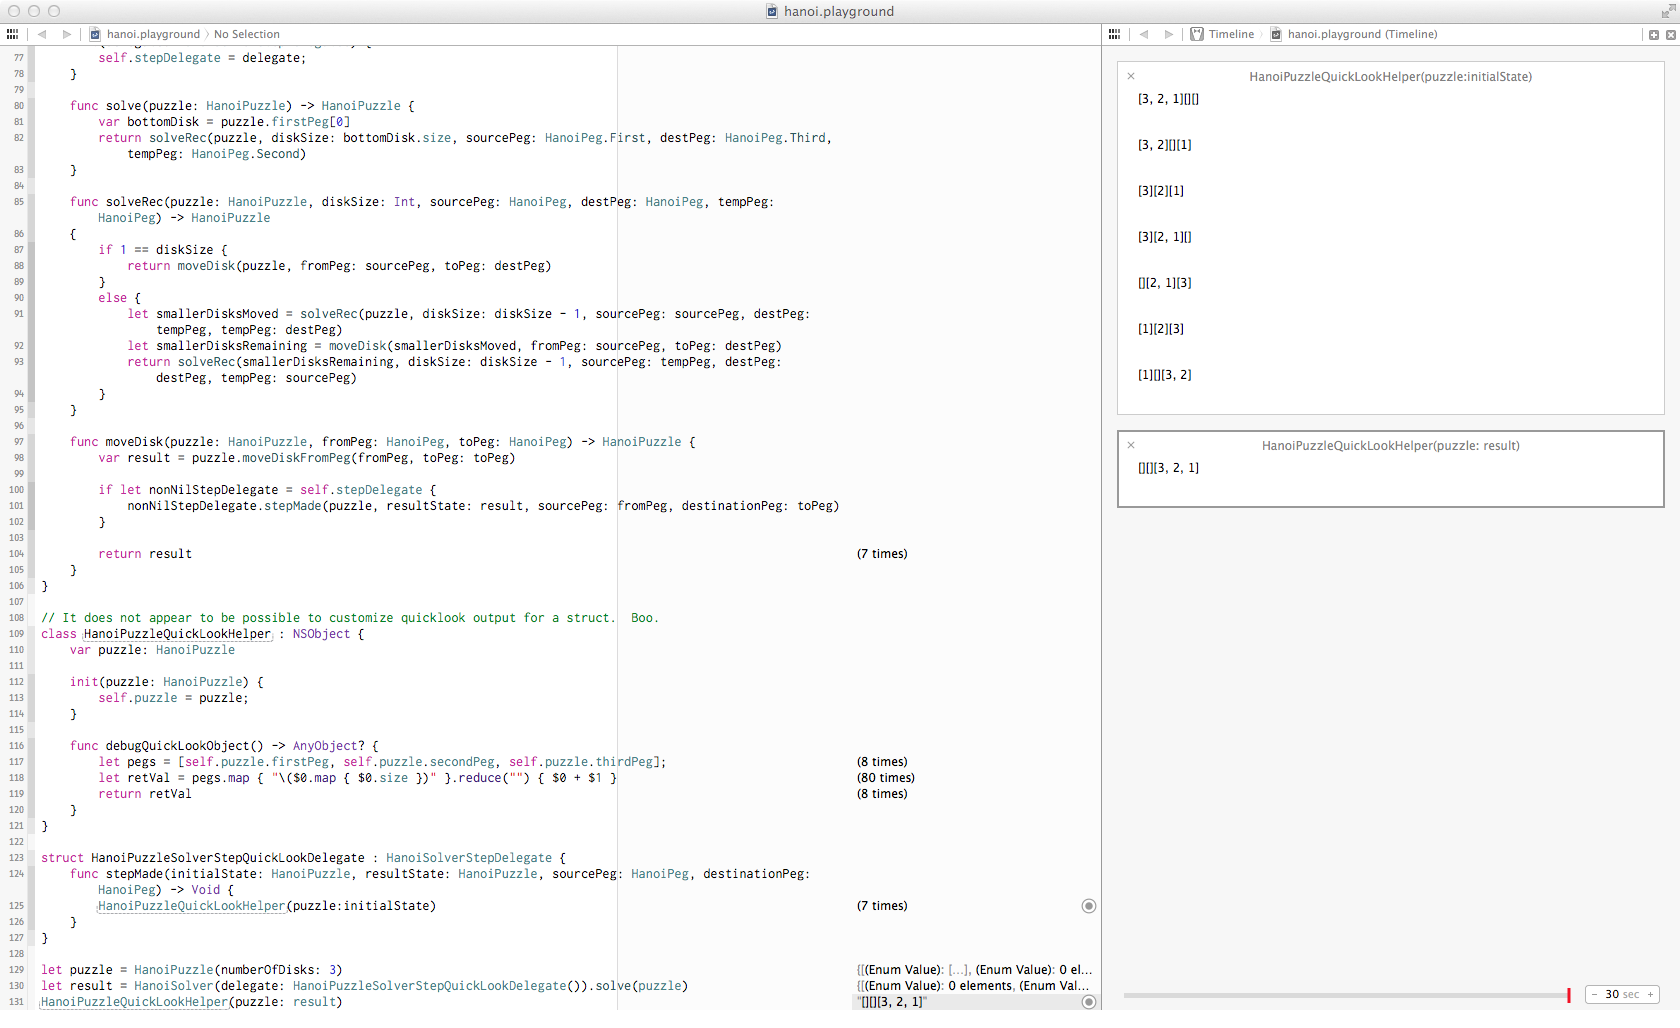
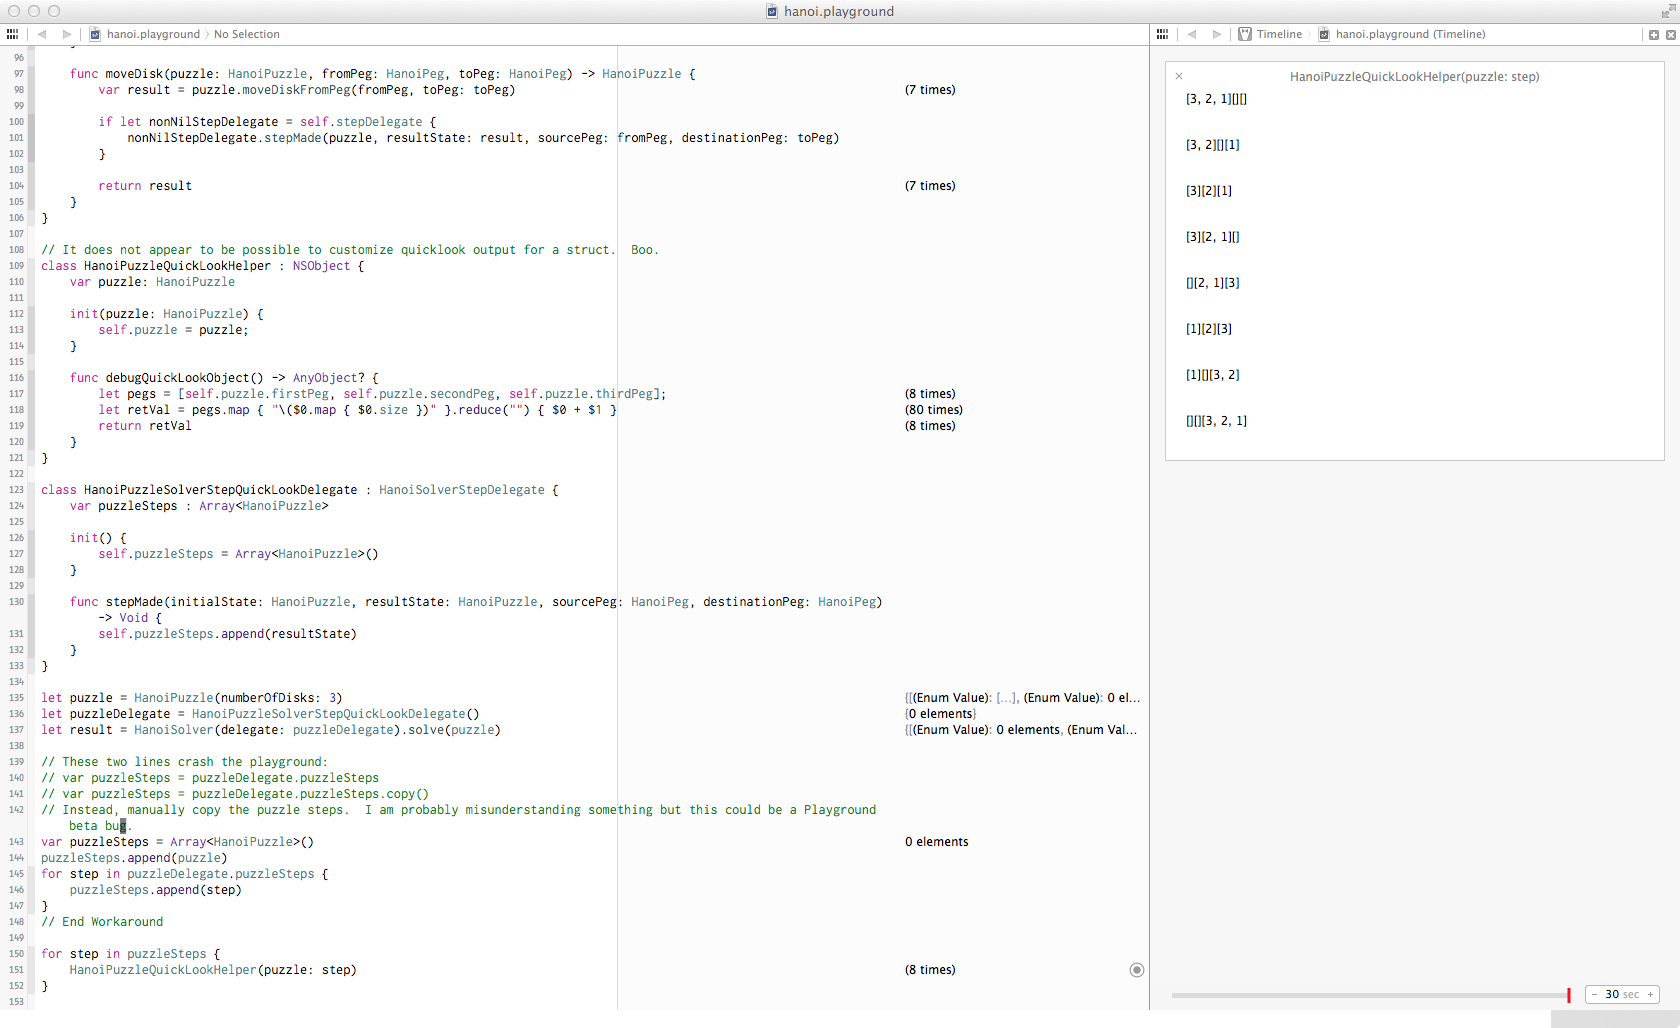
Accumulate solution steps in the solver delegate
Squashed commit of the following:

commit 26e01b0c929bc9bd8bbe21df3846ba07e19030cb
Author: Mark Schabacker <mark.schabacker@gmail.com>
Date:   Sun Jun 15 11:52:33 2014 -0400

    Update text quicklook screenshot

commit 783075ae256594dca186228bd82bc974a6e39081
Author: Mark Schabacker <mark.schabacker@gmail.com>
Date:   Sun Jun 15 11:51:26 2014 -0400

    Explain workaround

commit a68e4b1148769118ec602abc20a75150d570b6bb
Author: Mark Schabacker <mark.schabacker@gmail.com>
Date:   Sun Jun 15 10:05:48 2014 -0400

    Remove puzzle steps wrapper class

commit bf4da83cdbd02ee2c52e50db408a1a321ef19dc5
Author: Mark Schabacker <mark.schabacker@gmail.com>
Date:   Sun Jun 15 10:03:20 2014 -0400

    Avoid modifying delegate collection

commit 041c5bd32a7078f11ecb851b9253b8449eb080b8
Author: Mark Schabacker <mark.schabacker@gmail.com>
Date:   Sun Jun 15 09:59:28 2014 -0400

    Add PuzzleStepsWrapper to allow for array state accumulation

diff --git a/swift/hanoi.playground/section-1.swift b/swift/hanoi.playground/section-1.swift
@@ -120,12 +120,33 @@ class HanoiPuzzleQuickLookHelper : NSObject {
     }
 }
 
-struct HanoiPuzzleSolverStepQuickLookDelegate : HanoiSolverStepDelegate {
+class HanoiPuzzleSolverStepQuickLookDelegate : HanoiSolverStepDelegate {
+    var puzzleSteps : Array<HanoiPuzzle>
+
+    init() {
+        self.puzzleSteps = Array<HanoiPuzzle>()
+    }
+
     func stepMade(initialState: HanoiPuzzle, resultState: HanoiPuzzle, sourcePeg: HanoiPeg, destinationPeg: HanoiPeg) -> Void {
-        HanoiPuzzleQuickLookHelper(puzzle:initialState)
+        self.puzzleSteps.append(resultState)
     }
 }
 
 let puzzle = HanoiPuzzle(numberOfDisks: 3)
-let result = HanoiSolver(delegate: HanoiPuzzleSolverStepQuickLookDelegate()).solve(puzzle)
-HanoiPuzzleQuickLookHelper(puzzle: result)
+let puzzleDelegate = HanoiPuzzleSolverStepQuickLookDelegate()
+let result = HanoiSolver(delegate: puzzleDelegate).solve(puzzle)
+
+// These two lines crash the playground:
+// var puzzleSteps = puzzleDelegate.puzzleSteps
+// var puzzleSteps = puzzleDelegate.puzzleSteps.copy()
+// Instead, manually copy the puzzle steps.  I am probably misunderstanding something but this could be a Playground beta bug.
+var puzzleSteps = Array<HanoiPuzzle>()
+puzzleSteps.append(puzzle)
+for step in puzzleDelegate.puzzleSteps {
+    puzzleSteps.append(step)
+}
+// End Workaround
+
+for step in puzzleSteps {
+    HanoiPuzzleQuickLookHelper(puzzle: step)
+}
